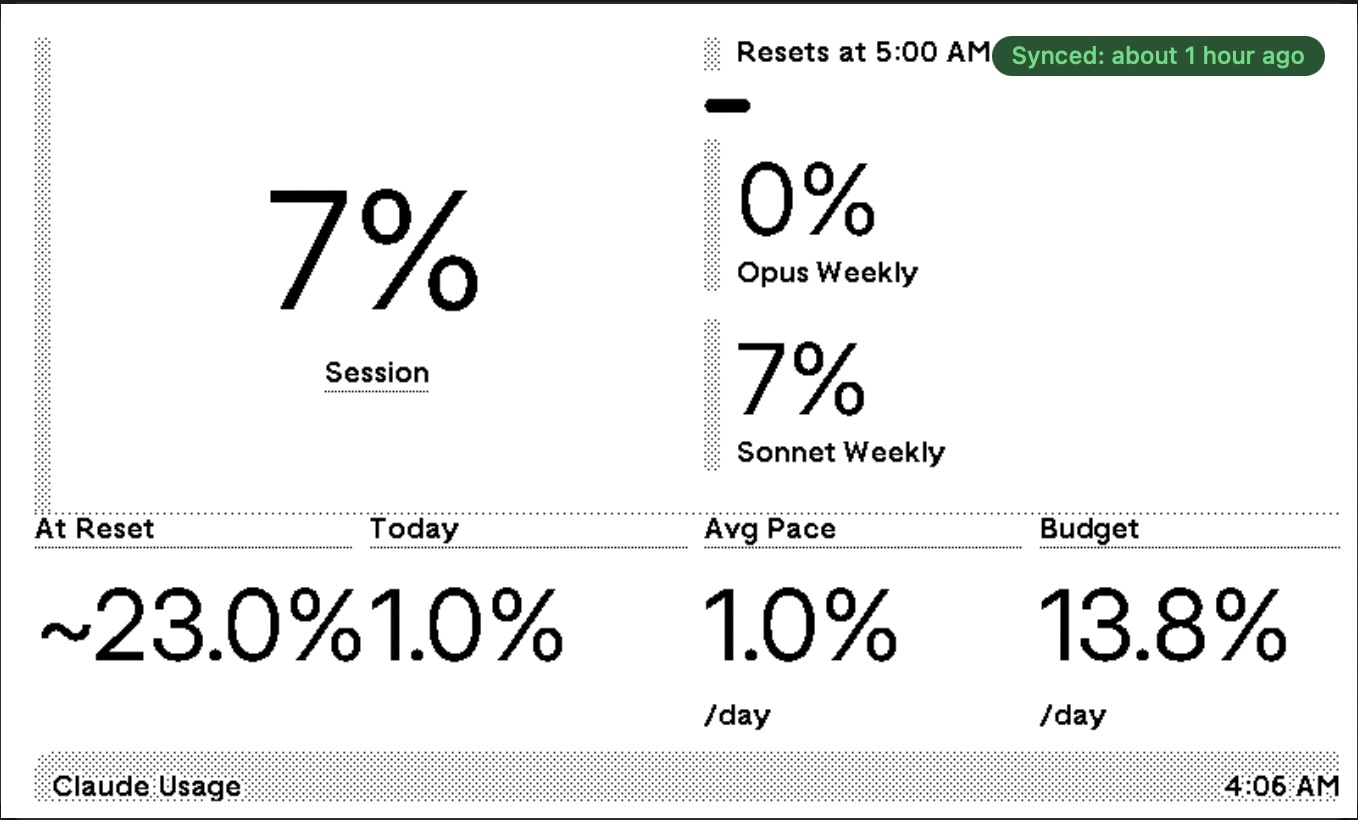
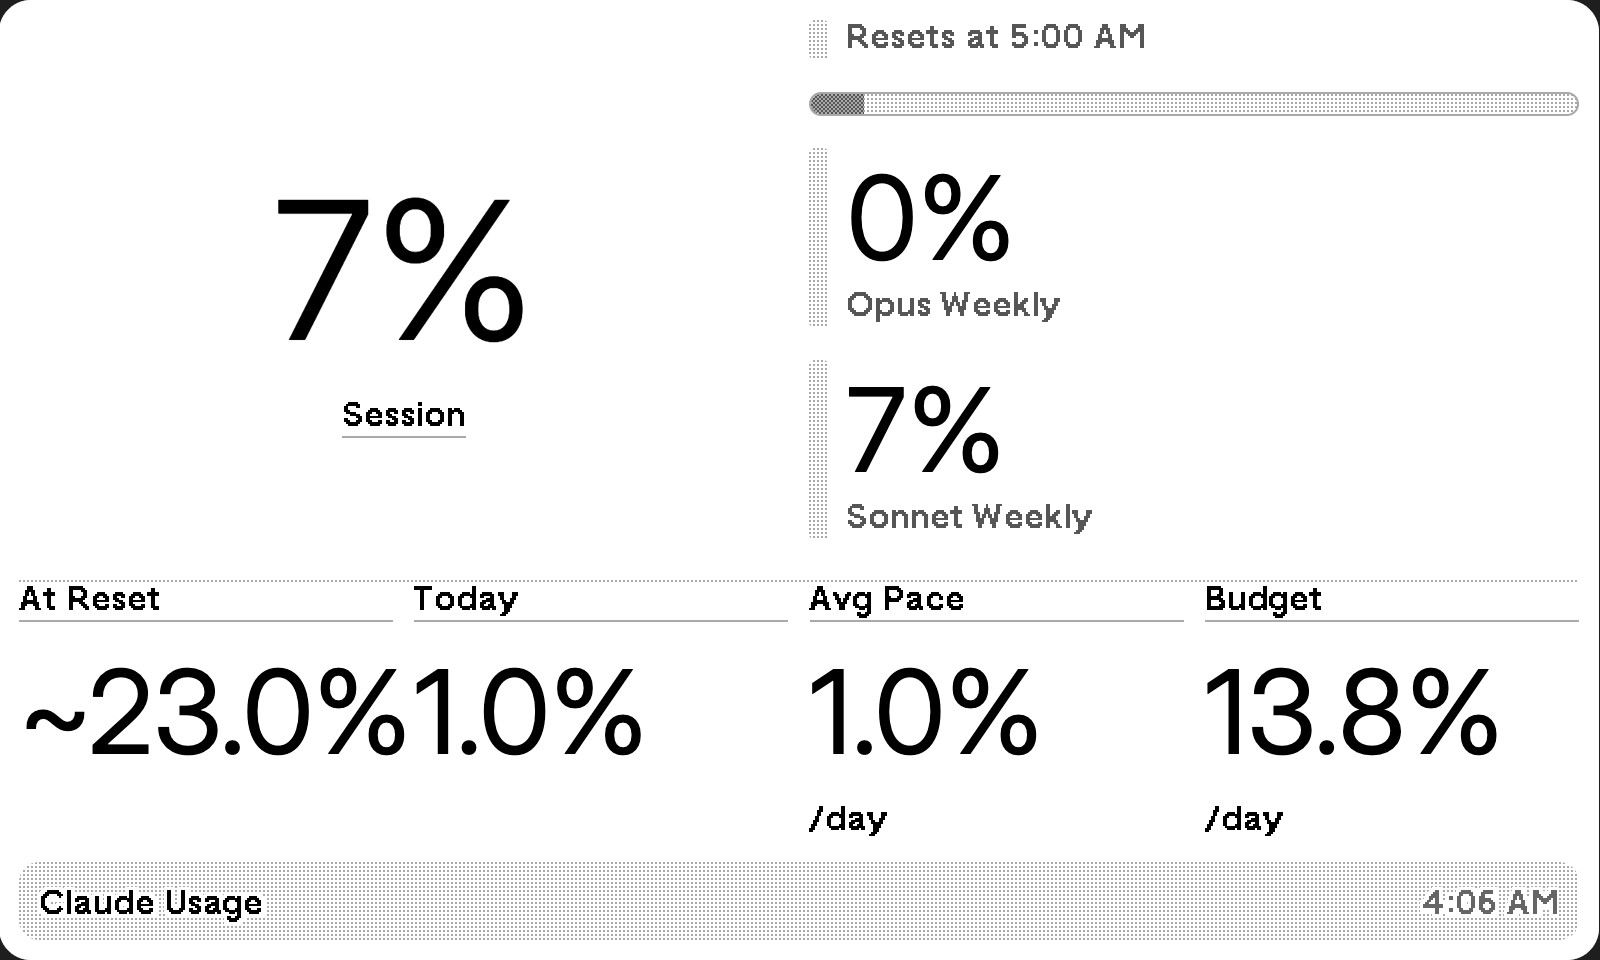
fix: remove meta bar from full view session hero, update screenshot

diff --git a/src/app/trmnl-template.html b/src/app/trmnl-template.html
@@ -5,12 +5,9 @@
 
       <div class="grid stretch-y">
         <div class="col col--span-3">
-          <div class="item grow">
-            <div class="meta"></div>
-            <div class="content flex flex--col flex--center-x flex--center-y stretch-x">
-              <span class="value value--xxlarge" data-fit-value="true">{{ session_pct }}%</span>
-              <span class="label label--underline">Session</span>
-            </div>
+          <div class="flex flex--col flex--center-x flex--center-y grow">
+            <span class="value value--xxlarge" data-fit-value="true">{{ session_pct }}%</span>
+            <span class="label label--underline">Session</span>
           </div>
         </div>
         <div class="col col--span-3 gap--medium">
